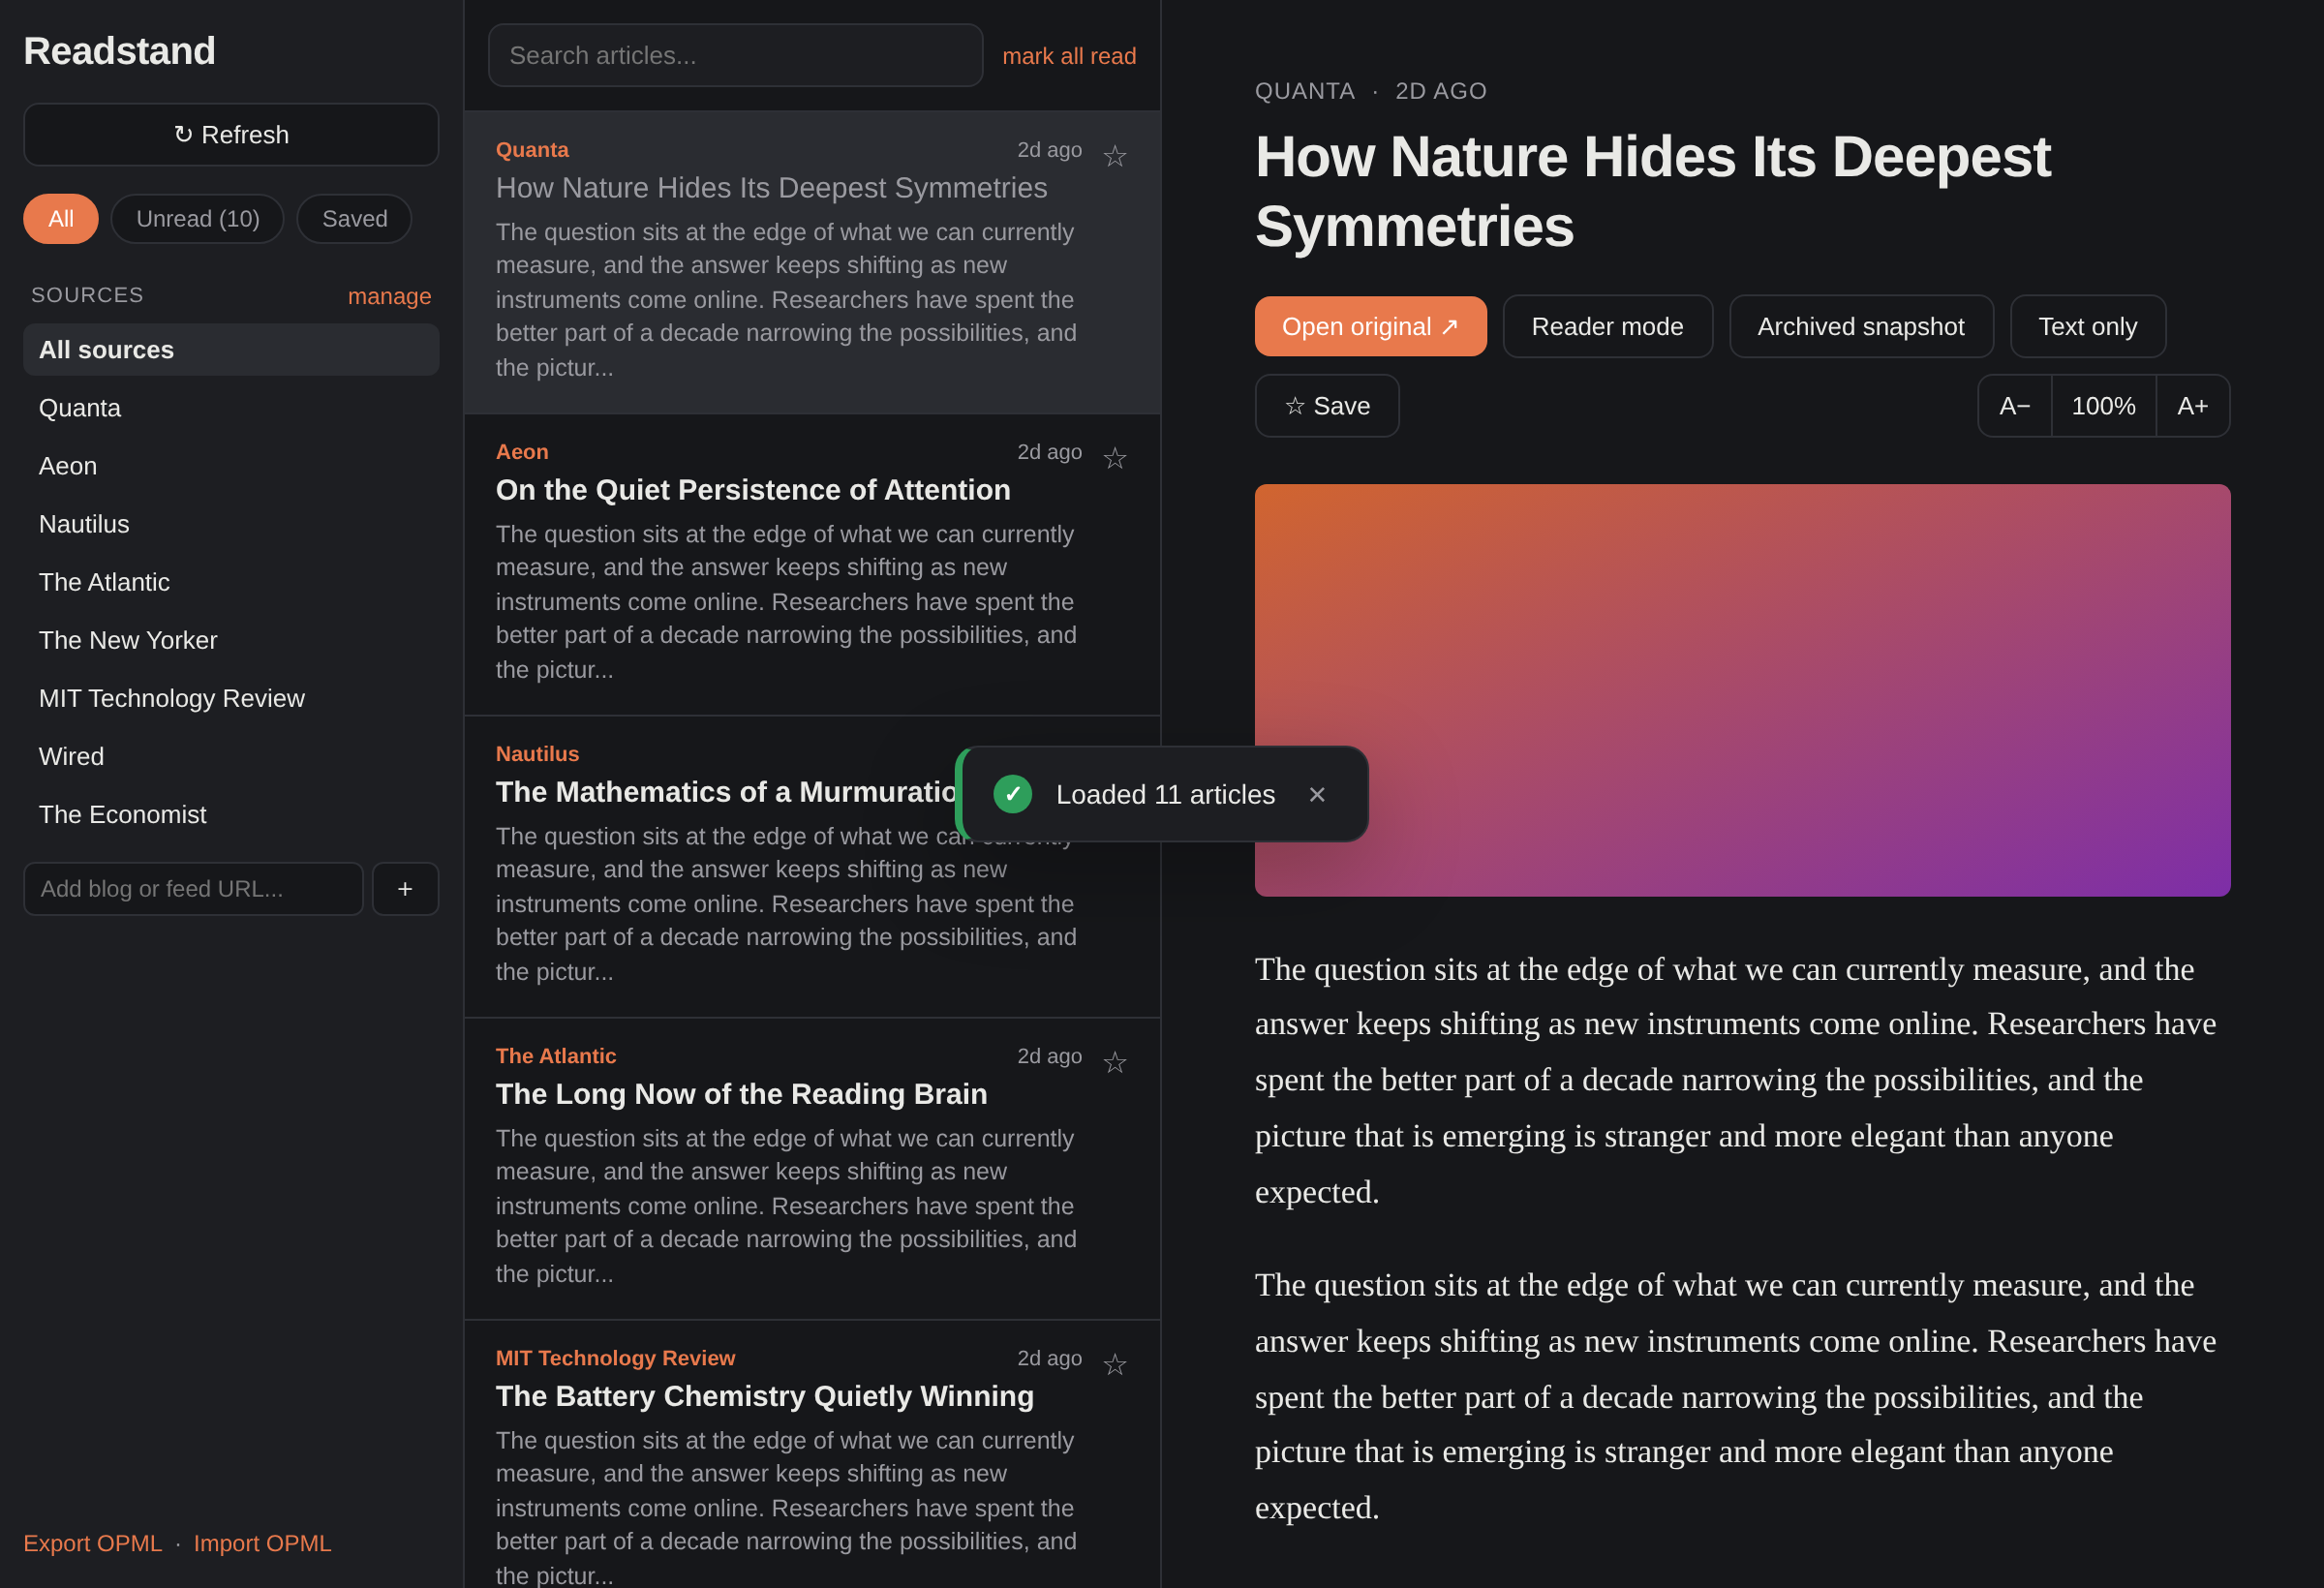
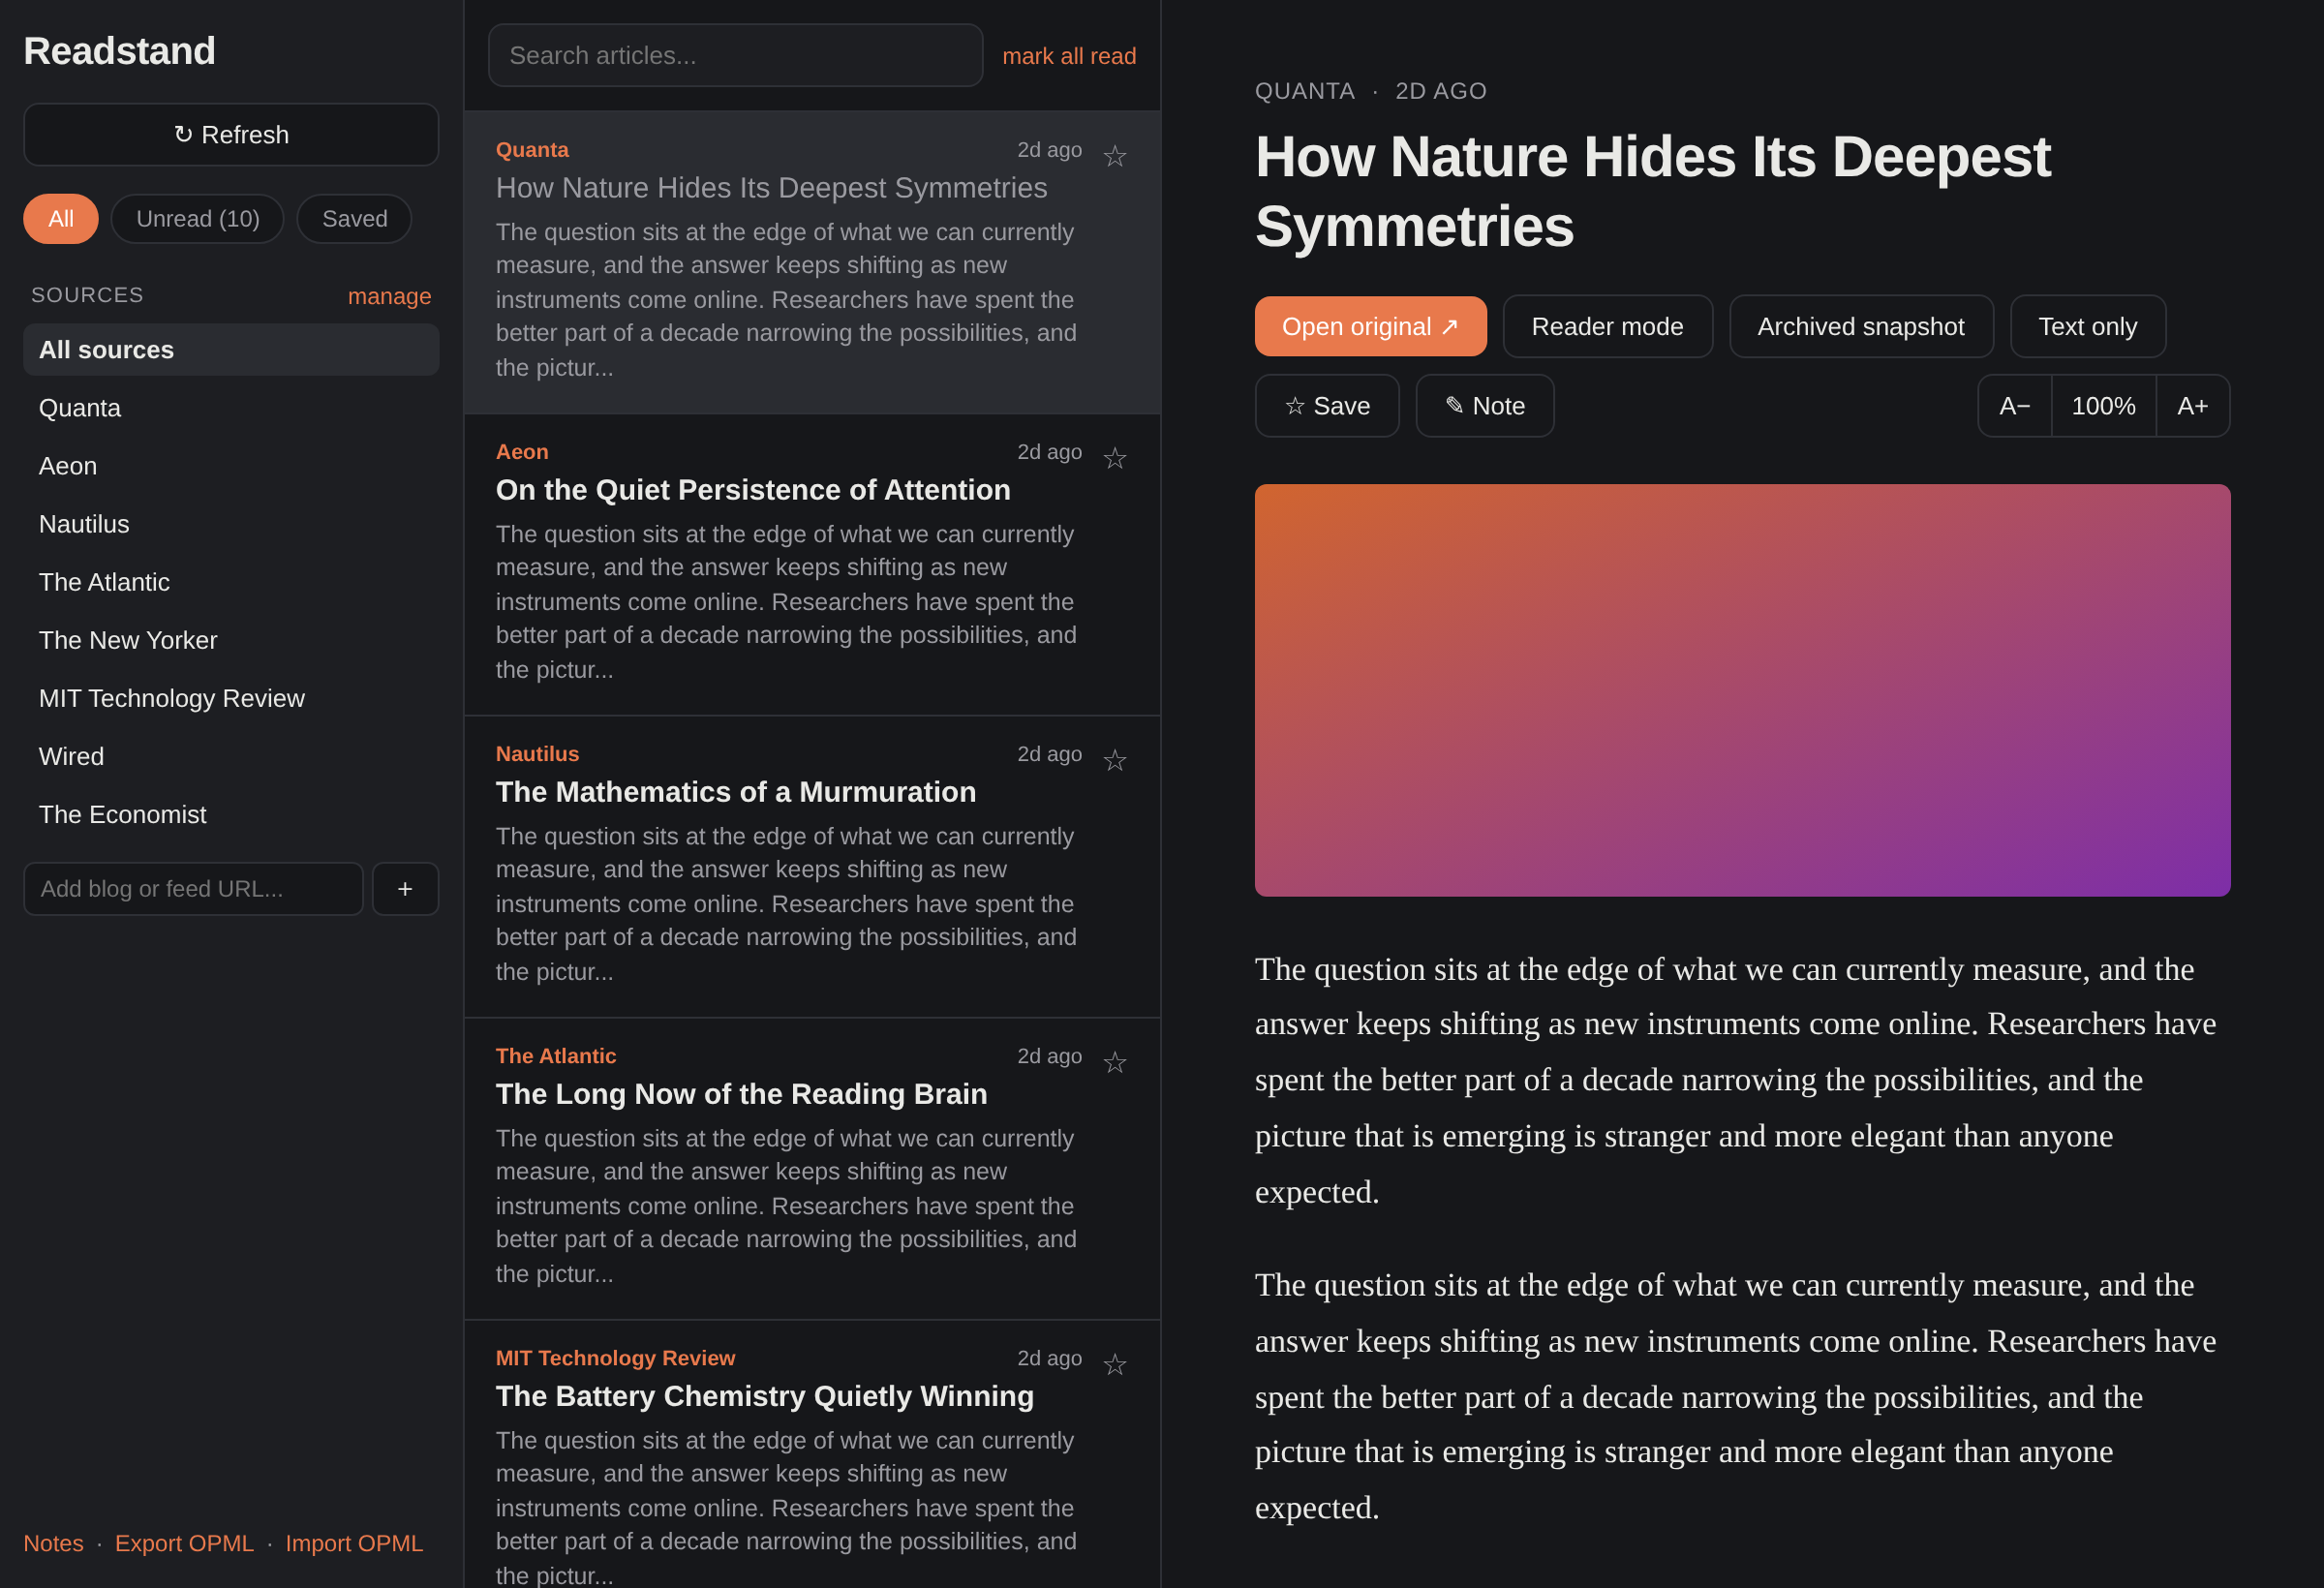
Rewrite README as a user-facing landing page
- Marketing-first: hero, value props (reading and the brain, with cited studies),
  feature tour with screenshots (reading view, notes, mobile, native desktop)
- Add Notes-panel and mobile screenshots; drop superseded reader-*.png
- Tell the origin story (Gizmodo obsession to consumer-electronics builds to
  Readstand) and link the author's profiles
- Keep concise install paths for extension, desktop, and PWA

Changed region(s): [[0.4062, 0.4665, 0.5938, 0.5598], [0.0, 0.964, 0.1875, 0.9951], [0.625, 0.2488, 0.6562, 0.2799]]

diff --git a/README.md b/README.md
@@ -1,211 +1,122 @@
 # Readstand
 
-A clean, minimal magazine and blog aggregator packaged as a Chrome extension.
-It pulls the RSS/Atom feeds of the publications you follow into one unified,
-newest-first reading list. Articles whose feeds carry full text (Quanta, Aeon,
-and similar) read inline; paywalled ones show a summary with a one-tap link to
-the original.
+**Your magazines and blogs, in one calm place. No feed algorithm. No noise. Just the reading you chose.**
 
-Built with React + Vite. The same codebase is designed to later wrap into a
-Tauri Linux desktop app with minimal changes.
-
-## Screenshots
-
-Reading view in light and dark (Readstand follows your OS theme):
+Readstand pulls the RSS and Atom feeds of the publications you actually care about into a single, fast, distraction-free reader. It runs as a Chrome extension, an installable web app for your phone, and a native Linux desktop app, all from the same code. Everything is stored locally. No account, no tracking, no one deciding what you see.
 
 ![Readstand, light theme](screenshots/desktop-light.png)
 
 ![Readstand, dark theme](screenshots/desktop-dark.png)
 
-The native Linux desktop app (Tauri) running live feeds:
+---
 
-![Readstand desktop app on Linux](screenshots/desktop-linux.png)
+## Why bother reading on purpose?
 
-## Install
+Most of what you read now is chosen by a recommendation engine optimized to keep you scrolling. Readstand flips that: you pick the sources, you get everything they publish, in order, and then you close the tab. That small shift, from feed to reading list, is worth more than it sounds.
 
-Readstand runs in any Chromium browser (Chrome, Edge, Brave, Vivaldi).
+The research on long-form reading is genuinely encouraging:
 
-### Option A: from a release (no build tools needed)
+- **It rewires your brain, measurably.** Neuroscientists at Emory University scanned readers every day while they worked through a novel. Reading produced real, lasting increases in brain connectivity, including in regions tied to language and to physical sensation, and the effect persisted for days after each session ([Emory / Brain Connectivity, 2013](https://pmc.ncbi.nlm.nih.gov/articles/PMC3868356/)).
+- **Readers live longer.** A Yale study followed 3,635 people for 12 years. Those who read books for about half an hour a day outlived non-readers by nearly two years, even after adjusting for education, wealth, and health. The effect was strongest for deep, book-length reading ([Yale / Social Science & Medicine, 2016](https://pubmed.ncbi.nlm.nih.gov/27471129/)).
+- **Attention is a muscle.** In *Reader, Come Home*, cognitive scientist Maryanne Wolf argues that deep reading, the slow immersive kind, builds the very focus that endless scrolling erodes. Readstand is built for that mode: one article, full width, nothing blinking at you.
 
-1. Download the latest `readstand-<version>.zip` from the
-   [Releases page](https://github.com/TitasDas/mag-reader/releases).
-2. Unzip it into a folder you intend to keep. Chrome loads the extension from
-   that folder, so do not delete it afterwards.
-3. Open `chrome://extensions`.
-4. Turn on **Developer mode** (top right).
-5. Click **Load unpacked** and select the unzipped folder.
-6. Click the Readstand icon in the toolbar to open it.
+These are associations from real studies, not medical promises. But the direction is clear, and it points at the same thing: reading things you chose, slowly, is good for the machine between your ears.
 
-### Option B: build from source
+Readstand adds one more idea on top: **reading is where your next idea comes from.** So it also helps you catch and keep those sparks (see Notes, below).
 
+---
+
+## What you get
+
+### One unified, newest-first feed
+Every source you follow, merged into a single timeline. Filter by **All / Unread / Saved**, jump to any one publication, or search across everything. Full text renders inline where the feed provides it; where it does not, one tap opens the original.
+
+### A real reading experience
+- **Reader mode** extracts the clean article from the page, like Safari or Firefox Reader View, images and all.
+- **Archived snapshot** opens the article through archive.today (with mirror fallback), which is also how you slip past a soft paywall.
+- **Text-only toggle** strips images for pure focus, and **A- / A+ zoom** sets your comfortable reading size. Both are remembered.
+- In-article links open inside the reader, with a Back trail, so you can follow a thread without losing your place.
+
+### Continue reading
+Readstand quietly tracks how far you got in each article. Come back tomorrow and the ones you started but did not finish are waiting in a **Continue reading** list in the sidebar, each with a progress bar. Click one and it drops you exactly where you stopped.
+
+### Notes and highlights, exportable
+Select any sentence to save it as a highlight. Jot a quick **Learned** or **To read** note without leaving the article. Everything lands in a Notes panel you can filter, and one click exports the lot to a **Markdown file**, ready for Obsidian or any notes app. Never lose a learning to tomorrow-morning-you again.
+
+![Notes and highlights, with Markdown export](screenshots/notes-dark.png)
+
+### Add anything, even sites that hide their feed
+Paste a blog homepage, a specific post, or a raw feed URL. Readstand auto-discovers the feed. For big publishers whose article pages hide their feed on another host (New York Times, The Guardian, Washington Post, BBC, The Verge, Financial Times, WSJ, The Economist, Bloomberg, Ars Technica, Medium), it knows the pattern and subscribes you to the right section. If there is genuinely no feed, it will still let you read that one article, and offer to report the miss.
+
+### Built for the couch, the commute, and the desk
+Fully responsive. On a phone it becomes a single-pane, tap-to-read experience with a slide-in sources drawer. Install it to your home screen and it runs full screen, offline-capable.
+
+![Readstand on a phone](screenshots/mobile-dark.png)
+
+### Yours, and private
+No accounts. No servers. No analytics. Your feeds, your read history, your notes, all live in local storage on your own device. Back them up any time with OPML export.
+
+---
+
+## Get it running
+
+Readstand runs three ways from one codebase. Pick whichever fits.
+
+### Chrome extension (fastest)
 ```bash
 git clone https://github.com/TitasDas/mag-reader
 cd mag-reader
 npm install
-npm run build     # outputs the extension to dist/
+npm run build
 ```
+Then open `chrome://extensions`, turn on **Developer mode**, click **Load unpacked**, and select the `dist/` folder. Click the Readstand icon to open it.
 
-Then load the `dist/` folder with **Load unpacked** (steps 3 to 6 above).
-
-Note: extensions load per browser profile, so repeat the load step in each
-profile where you want Readstand.
-
-## Features
-
-- Unified timeline across all your feeds, newest first
-- Filter by **All / Unread / Saved**, or by individual source
-- Full-text reading pane where the feed provides it; link-out where it does not
-- **Reader mode** that extracts the readable article from the page's own HTML
-  (like Firefox/Safari Reader View)
-- **Archived snapshot** to open the article on archive.today in one click
-- **Images / Text-only toggle** to read with the publication's pictures, or
-  strip them for a distraction-free text view (your choice is remembered)
-- **Add any blog by URL**: paste a site or post URL (for example
-  `lesswrong.com/about`) and it auto-discovers the RSS/Atom/JSON feed and
-  subscribes
-- **Auto-refresh**: a background worker checks your feeds every 30 minutes and
-  shows a count of new posts as a badge on the toolbar icon
-- **Pick the right feed** when a site exposes several (posts, comments, podcast)
-- **OPML import / export** to back up your subscriptions or move them between
-  readers
-- **Responsive** layout for phone and tablet: a slide-in sources drawer, and a
-  single-pane list ↔ reader drill-down on phones
-- **Installable as a PWA** on phones/tablets/desktop (add to home screen),
-  with an offline app shell
-- Everything stored locally, no accounts, no server
-- Search across titles and previews
-
-## Use it on a phone or tablet (PWA)
-
-A Chrome *extension* can't install on Android/iOS, so for mobile Readstand also
-builds as an installable web app (PWA) from the same code.
-
-1. **Feeds need a proxy on the web.** Unlike the extension, a web page can't read
-   cross-origin feeds, so deploy the tiny CORS proxy in [`proxy/worker.js`](proxy/worker.js)
-   (a Cloudflare Worker; instructions are in that file).
-2. **Build pointing at it and host `dist/` over HTTPS:**
-   ```bash
-   VITE_FEED_PROXY="https://readstand-proxy.<you>.workers.dev/?url=" npm run build
-   # deploy dist/ to any static host (Cloudflare Pages, Netlify, Vercel, GitHub Pages)
-   ```
-3. Open the hosted URL on your device and **Add to Home Screen**. It launches
-   full-screen and works offline for already-loaded content.
-
-The build with no `VITE_FEED_PROXY` still works as the extension (which fetches
-directly). Feed auto-discovery is most reliable in the extension; on the hosted
-PWA, pasting a direct feed URL is the surest path.
-
-## Linux desktop app (Tauri)
-
-Readstand also wraps as a native Linux desktop app via [Tauri](https://tauri.app)
-from the same code. On the desktop it fetches feeds through Tauri's Rust HTTP
-plugin, so (like the extension) it needs **no proxy** and hits no CORS wall.
-
-### Prerequisites (one time)
-
-1. **Rust toolchain** (installs to `~/.cargo`, no root needed):
-
-   ```bash
-   curl --proto '=https' --tlsv1.2 -sSf https://sh.rustup.rs | sh -s -- -y
-   ```
-
-2. **System WebView + build libraries.** On Linux Mint 21.3 / Ubuntu 22.04
-   (Debian-based; see [tauri.app](https://tauri.app/start/prerequisites/) for
-   other distros):
-
-   ```bash
-   sudo apt update
-   sudo apt install -y libwebkit2gtk-4.1-dev build-essential curl wget file \
-     libxdo-dev libssl-dev libayatana-appindicator3-dev librsvg2-dev
-   ```
-
-### Run / build
+### Linux desktop app (native)
+A real desktop window via [Tauri](https://tauri.app). On the desktop it fetches feeds natively, so it needs no proxy and hits no CORS wall.
 
 ```bash
-# In a fresh shell, put cargo on PATH first:
+# one-time prerequisites
+curl --proto '=https' --tlsv1.2 -sSf https://sh.rustup.rs | sh -s -- -y
+sudo apt update && sudo apt install -y libwebkit2gtk-4.1-dev build-essential curl wget file \
+  libxdo-dev libssl-dev libayatana-appindicator3-dev librsvg2-dev   # Debian / Ubuntu / Mint
+
 . "$HOME/.cargo/env"
-
 npm install
-npm run tauri:dev      # launch the app in a dev window (hot reload)
-npm run tauri:build    # produce a .deb and AppImage in
-                       # src-tauri/target/release/bundle/
+npm run tauri:build   # builds a .deb and an AppImage in src-tauri/target/release/bundle/
 ```
 
-The first build compiles ~460 Rust crates and takes a few minutes; later builds
-are incremental and fast. `npm run tauri:build` runs `npm run build` first, so
-it always bundles the latest frontend.
+![The native Linux desktop app running live feeds](screenshots/desktop-linux.png)
 
-Icons for the desktop app live in `src-tauri/icons/` and are regenerated by
-`npm run icons` alongside the extension/PWA icons.
-
-## Roadmap
-
-Planned, not yet built:
-
-- **Novelty-based recommendations**: surface articles that are genuinely new or
-  different from what you have already read, rather than only the most recent.
-- **Automatic feed detection from any link**: find the right feed for any URL
-  you paste, even when a page hides or omits its autodiscovery tag.
-- **UI/UX improvements**: keyboard navigation, and refinements to the reading
-  pane and source management.
-
-## Develop
-
+### On your phone (installable web app)
+A Chrome extension cannot install on a phone, so Readstand also builds as a PWA. Because a web page (unlike the extension) cannot read cross-origin feeds, deploy the tiny CORS proxy in [`proxy/worker.js`](proxy/worker.js), then:
 ```bash
-npm install
-npm run dev      # runs in a normal browser tab (uses localStorage)
+VITE_FEED_PROXY="https://your-proxy.workers.dev/?url=" npm run build
+# host dist/ over HTTPS anywhere, open it on your phone, and Add to Home Screen
 ```
 
-In dev mode, cross-origin feeds that lack permissive CORS headers may fail to
-load. That is expected. Inside the packaged extension they load fine because the
-extension is granted host permissions.
+---
 
-## Reading full articles
+## The story behind it
 
-Feeds that carry full text render completely in the reading pane. For the rest:
+Readstand was built by **Titas Das**, an applied machine learning scientist and software engineer who has never quite gotten over magazines.
 
-- **Reader mode** fetches the article's own public HTML and extracts the body.
-  This works when the page ships its text (including many overlay or "soft"
-  paywalls that send the article and hide it with CSS). It cannot recover text a
-  server never sends, so a hard paywall yields nothing by design.
-- **Archived snapshot** opens the page on [archive.today](https://archive.ph), a
-  public web-archiving service.
-- **Open original** takes you to the publisher, where your own subscription
-  applies.
+The obsession started with **Gizmodo**. Long before he was shipping ML systems, he was reading it cover to cover and coming away with wild ideas about the next generation of consumer electronics: a genuinely portable air conditioner, kitchens that cook for you, appliances that do the boring prep so you get to the good part. Most people read that stuff and move on. He built it. His work spans **intelligent cooking automation** (the automatic induction cooker), a **robotic ingredient-preparation system** (yes, a robot that chops your vegetables), and OCR-driven food apps, alongside the day job in machine learning, robotics, and, more recently, climate and sustainability tech.
 
-This tool does not bypass DRM and does not fetch content from shadow libraries.
+The throughline: a good magazine is an idea reactor. You feed it attention, and ideas come out. But the modern reading experience is hostile to that, feeds fighting for your attention, half-read tabs, sparks you forget by morning. He has a repo literally called `TheEconomistDownload`, because getting the reading *in* has always been the friction.
 
-## Adding blogs
+Readstand is the tool he wanted: a quiet place to read widely on purpose, and, just as importantly, to **catch the ideas that reading throws off** before they evaporate. Read, highlight, note, export, build the thing.
 
-Paste any of these into the **Add blog or feed URL** box in the sidebar:
+- GitHub: [@TitasDas](https://github.com/TitasDas)
+- LinkedIn: [titas-das](https://www.linkedin.com/in/titas-das/)
+- Art: [artstation.com/titasdas](https://artstation.com/titasdas)
 
-- a site homepage, `lesswrong.com`
-- any page on the site, `https://www.lesswrong.com/about`
-- the feed itself, `https://www.lesswrong.com/feed.xml`
+---
 
-It checks whether the URL is already a feed, then reads the page's feed
-autodiscovery tags, then probes common feed paths (`/feed`, `/rss.xml`,
-`/index.xml`, and similar). RSS, Atom, and JSON Feed are all supported. If a
-site offers more than one feed (for example posts vs comments), you pick which
-to subscribe to. Once subscribed, new posts are pulled in automatically on
-refresh.
+## Notes for the curious
 
-## Backup and migration (OPML)
+- **Default sources** to get you started: Quanta, Aeon, Nautilus, The Atlantic, The New Yorker, MIT Technology Review, Wired, The Economist. Add or remove any of them in the app.
+- **Paywalls** stand. Readstand does not crack DRM or pull from shadow libraries. For paywalled pieces it gives you the headline and a link, plus the archived-snapshot option, which uses your own right to read.
+- **Missing a publisher?** If a site has no discoverable feed, use **Report missing feed** in the app to open a prefilled issue, and a pattern can be added.
+- **Develop / test:** `npm run dev` for a live server, `npm run test:e2e` for the headless end-to-end suite, `npm run icons` and `npm run shots` to regenerate the icon set and screenshots.
 
-Use **Export OPML** / **Import OPML** at the bottom of the sidebar to save your
-subscription list or bring one over from another reader. OPML is the standard
-format every feed reader understands.
-
-## Calibre (companion workflow)
-
-[Calibre](https://calibre-ebook.com) can download many periodicals on a schedule
-via its built-in recipes (**Fetch news**), delivering a clean EPUB/PDF to your
-reader or e-ink device. Recipes for paywalled titles use **your own subscription
-credentials**, which you enter in Calibre. A Chrome extension cannot drive
-Calibre directly, so run it alongside Readstand when you want an offline,
-packaged issue.
-
-## Default feeds
-
-Quanta, Aeon, Nautilus, The Atlantic, The New Yorker, MIT Technology Review,
-Wired, The Economist. Edit `src/feeds.js` or add and remove feeds in the app.
+Happy reading.